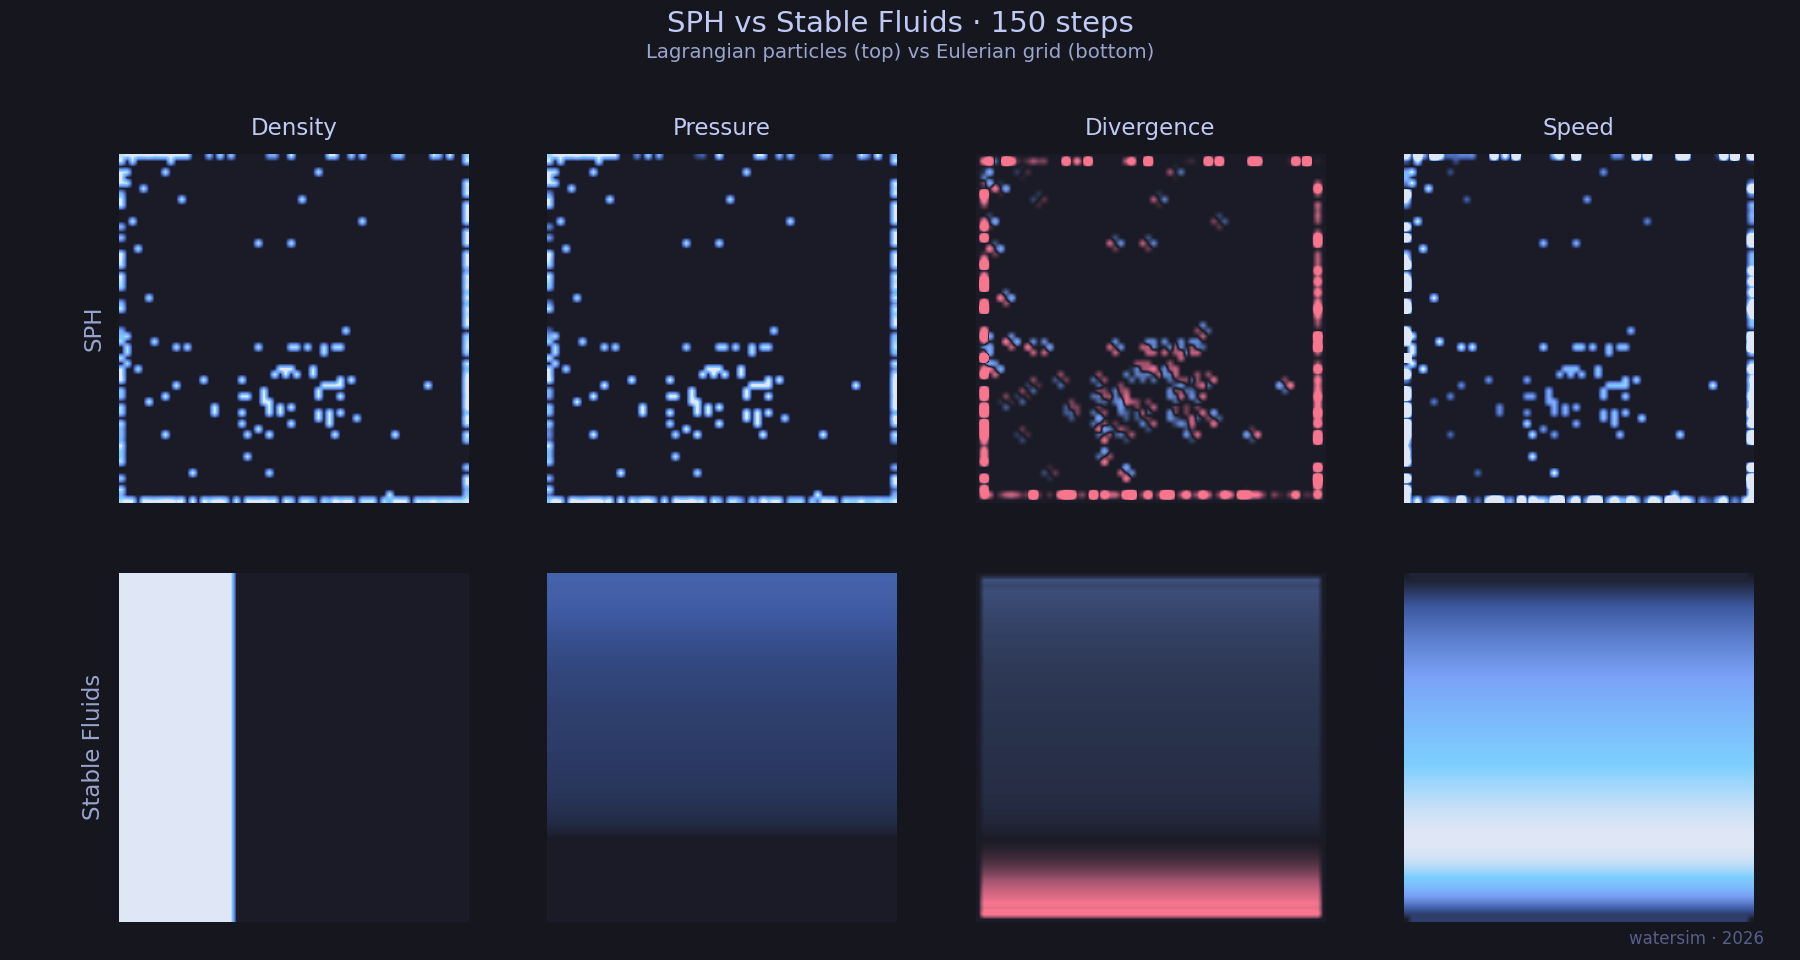
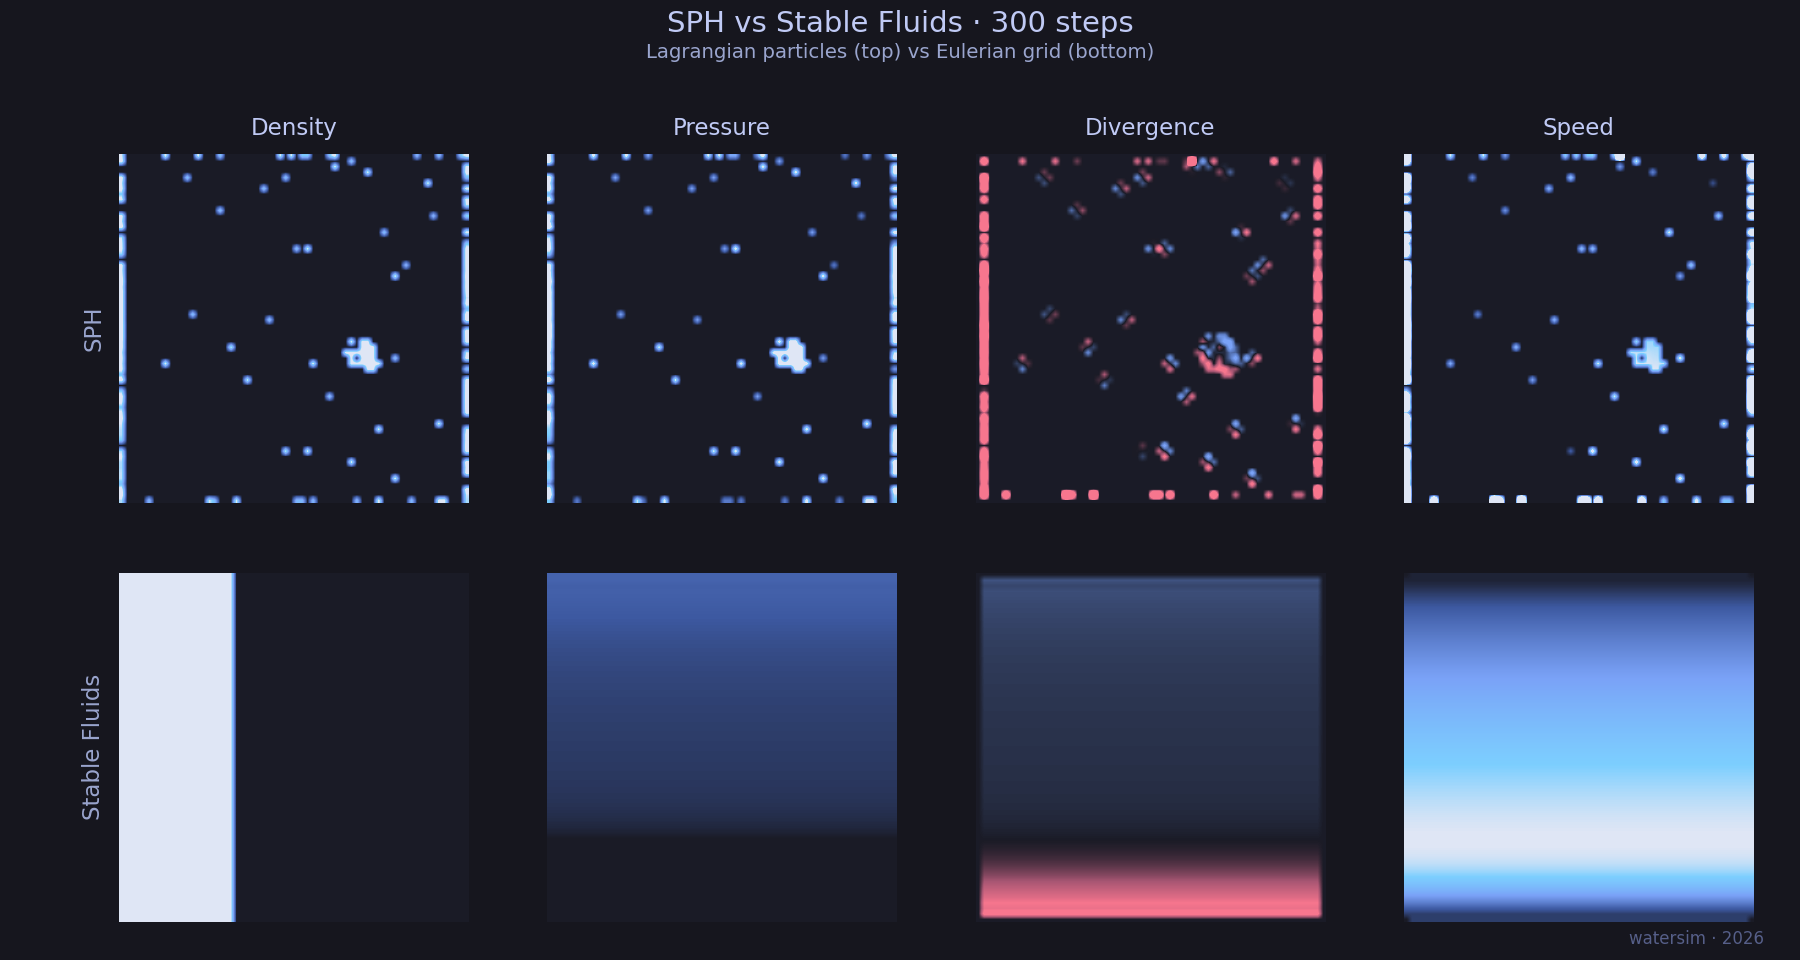
README accessibility pass + centered equations + render tweaks
- README: wrap all display equations in <p align='center'> for true centering
- README: moderate accessibility rewrite of opening sentences (gloss jargon: incompressible, Newtonian, Eulerian, Lagrangian, free surface) without changing the math
- Two-source swirl: stronger sources (DENSITY 140 -> 175, FORCE 4.0 -> 4.6) for fuller colour range
- SPH static comparison: 150 -> 300 steps (500 was unstable, particles collapsed to walls)
- PIC/FLIP dam break: HOLD_FRAMES 20 -> 25

diff --git a/watersim/scenes/staticAnalysis.py b/watersim/scenes/staticAnalysis.py
@@ -19,7 +19,7 @@ from watersim.viz.theme import (
 from watersim.viz.animator import ensurePlotDir, PLOT_DIR
 
 
-SIMULATION_STEPS = 150
+SIMULATION_STEPS = 300
 N_PER_ROW = 30   # ~1800 particles
 OUTPUT = os.path.join(PLOT_DIR, "static_comparison.png")
 FIELDS = ("density", "pressure", "divergence", "speed")
@@ -53,7 +53,7 @@ def runStaticAnalysis() -> None:
         gridspec_kw={"hspace": 0.20, "wspace": 0.05},
     )
     fig.suptitle(
-        "SPH vs Stable Fluids · 150 steps",
+        "SPH vs Stable Fluids · 300 steps",
         color=FG_PRIMARY, fontsize=14, y=0.99,
         fontweight="regular",
     )

diff --git a/watersim/scenes/damBreak.py b/watersim/scenes/damBreak.py
@@ -71,7 +71,7 @@ def runDamBreak() -> None:
 
     trail: list[np.ndarray] = []
     trailScatters: list = []
-    HOLD_FRAMES = 20  # initial pause showing the dam at rest
+    HOLD_FRAMES = 25  # initial pause showing the dam at rest
 
     def update(frame: int) -> list:
         nonlocal trail, trailScatters

diff --git a/watersim/scenes/swirl.py b/watersim/scenes/swirl.py
@@ -20,8 +20,8 @@ from watersim.viz.animator import saveAnimation, ensurePlotDir, PLOT_DIR
 GRID_SIZE = 192
 FRAMES = 130
 FPS = 30
-DENSITY_AMOUNT = 140.0
-FORCE_SCALE = 4.0
+DENSITY_AMOUNT = 175.0
+FORCE_SCALE = 4.6
 ORBIT_RADIUS_FRAC = 0.22
 OUTPUT = os.path.join(PLOT_DIR, "saved_simulation.gif")
 

diff --git a/README.md b/README.md
@@ -121,45 +121,69 @@ Plots/            Generated GIFs and PNGs
 
 <br>
 
-All three solvers model an incompressible Newtonian fluid in two dimensions. The governing equations are the incompressible Navier-Stokes system:
+All three solvers model an incompressible Newtonian fluid in two dimensions. Incompressible means the fluid cannot be squeezed; Newtonian means its viscosity (resistance to shear) does not change with how fast it is being deformed. The governing equations are the incompressible Navier-Stokes system:
+
+<p align="center">
 
 $$\frac{\partial \mathbf{u}}{\partial t} + (\mathbf{u} \cdot \nabla)\mathbf{u} = -\frac{\nabla p}{\rho} + \nu \nabla^2 \mathbf{u} + \mathbf{f}, \qquad \nabla \cdot \mathbf{u} = 0.$$
 
-The first equation is Newton's second law for a fluid parcel: inertia and convective acceleration on the left, pressure gradient, viscous diffusion, and body forces on the right. The second is the incompressibility constraint, which forces the velocity field to be divergence-free everywhere.
+</p>
+
+The first equation is just Newton's second law $F = ma$ written for a small parcel of fluid: inertia and convective acceleration on the left, pressure gradient, viscous diffusion, and body forces on the right. The second is the incompressibility constraint, which forces the velocity field to be divergence-free everywhere (no fluid magically appearing or disappearing in any region).
 
 ### Pressure Projection
 
-The hard part of incompressible simulation is enforcing $\nabla \cdot \mathbf{u} = 0$ at every step. The standard approach uses the Helmholtz decomposition: any vector field $\mathbf{w}$ can be split uniquely into a divergence-free part and a gradient,
+The trickiest part of incompressible simulation is enforcing $\nabla \cdot \mathbf{u} = 0$ at every step, since the advection and force updates do not respect it on their own. The standard fix uses the Helmholtz decomposition: any vector field $\mathbf{w}$ can be split uniquely into a divergence-free part and a gradient,
+
+<p align="center">
 
 $$\mathbf{w} = \mathbf{u} + \nabla p.$$
+
+</p>
 
 Taking the divergence and using $\nabla \cdot \mathbf{u} = 0$ gives the Poisson equation $\nabla^2 p = \nabla \cdot \mathbf{w}$. Solving for $p$ (here by Gauss-Seidel relaxation) and subtracting $\nabla p$ from $\mathbf{w}$ yields the projected, divergence-free velocity. This is the projection step in both `StableFluidsSolver` and `HybridSolver`.
 
 ### Stable Fluids (Eulerian)
 
-Stam's contribution was a semi-Lagrangian advection scheme that is unconditionally stable. Rather than pushing fluid forward, each grid cell is traced backward along the velocity field:
+Eulerian solvers track the fluid on a fixed grid and ask, at each cell, what the velocity and density are right now. Stam's contribution was a semi-Lagrangian advection scheme that is unconditionally stable: rather than pushing fluid forward, each grid cell is traced backward along the velocity field,
+
+<p align="center">
 
 $$\phi^{n+1}(\mathbf{x}) = \phi^n\bigl(\mathbf{x} - \mathbf{u}\,\Delta t\bigr).$$
+
+</p>
 
 The new value at $\mathbf{x}$ is the old value at the back-traced position, sampled by bilinear interpolation. This removes the CFL constraint and allows large timesteps. The cost is first-order accuracy and noticeable numerical dissipation, which is why vortical structures decay over long runs.
 
 ### SPH (Lagrangian)
 
-SPH replaces the continuum with a set of particles, each carrying mass, position, velocity, and pressure. Any field $A$ can be reconstructed at any point by a kernel-weighted sum over neighbours:
+Lagrangian solvers throw away the grid entirely and represent the fluid as a swarm of particles. Each particle carries mass, position, velocity, and pressure, and any continuous field $A$ can be reconstructed at any point by a kernel-weighted sum over neighbours:
+
+<p align="center">
 
 $$A(\mathbf{r}) = \sum_j \frac{m_j}{\rho_j} A_j \, W(|\mathbf{r} - \mathbf{r}_j|, h).$$
 
+</p>
+
 The Poly6 kernel is used for density estimation,
 
+<p align="center">
+
 $$W_{\mathrm{poly6}}(r^2, h) = \frac{315}{64\pi h^9}(h^2 - r^2)^3,$$
+
+</p>
 
 and the gradient of the Spiky kernel is used for pressure forces because its non-zero gradient at $r = 0$ prevents particle clumping. Pressure is closed by a Tait equation of state $p_i = k(\rho_i - \rho_0)$. Neighbour queries use `scipy.spatial.cKDTree` for $\mathcal{O}(N \log N)$ lookup.
 
 ### PIC/FLIP (Hybrid)
 
-Pure Lagrangian methods handle free surfaces naturally but struggle with incompressibility; pure Eulerian methods enforce incompressibility cheaply but suffer advective diffusion. PIC/FLIP keeps particles as the primary representation but borrows the grid only for the projection step. The FLIP update transmits the *change* in grid velocity back to the particles,
+Neither pure approach is ideal: Lagrangian methods handle free surfaces (water-air interfaces) naturally but struggle to enforce incompressibility, while Eulerian methods enforce incompressibility cheaply but smear out fine detail through advective diffusion. PIC/FLIP keeps particles as the primary representation but borrows the grid only for the projection step. The FLIP update transmits the *change* in grid velocity back to the particles,
+
+<p align="center">
 
 $$v_p^{n+1} = \alpha (v_p^n + \Delta v_g) + (1 - \alpha)\, v_g^{n+1},$$
+
+</p>
 
 so $\alpha = 0.95$ gives 95% FLIP (energetic, detail-preserving) blended with 5% PIC (damping, stabilising). The P2G scatter uses `np.add.at` for vectorised bilinear accumulation on a staggered MAC grid.
 
